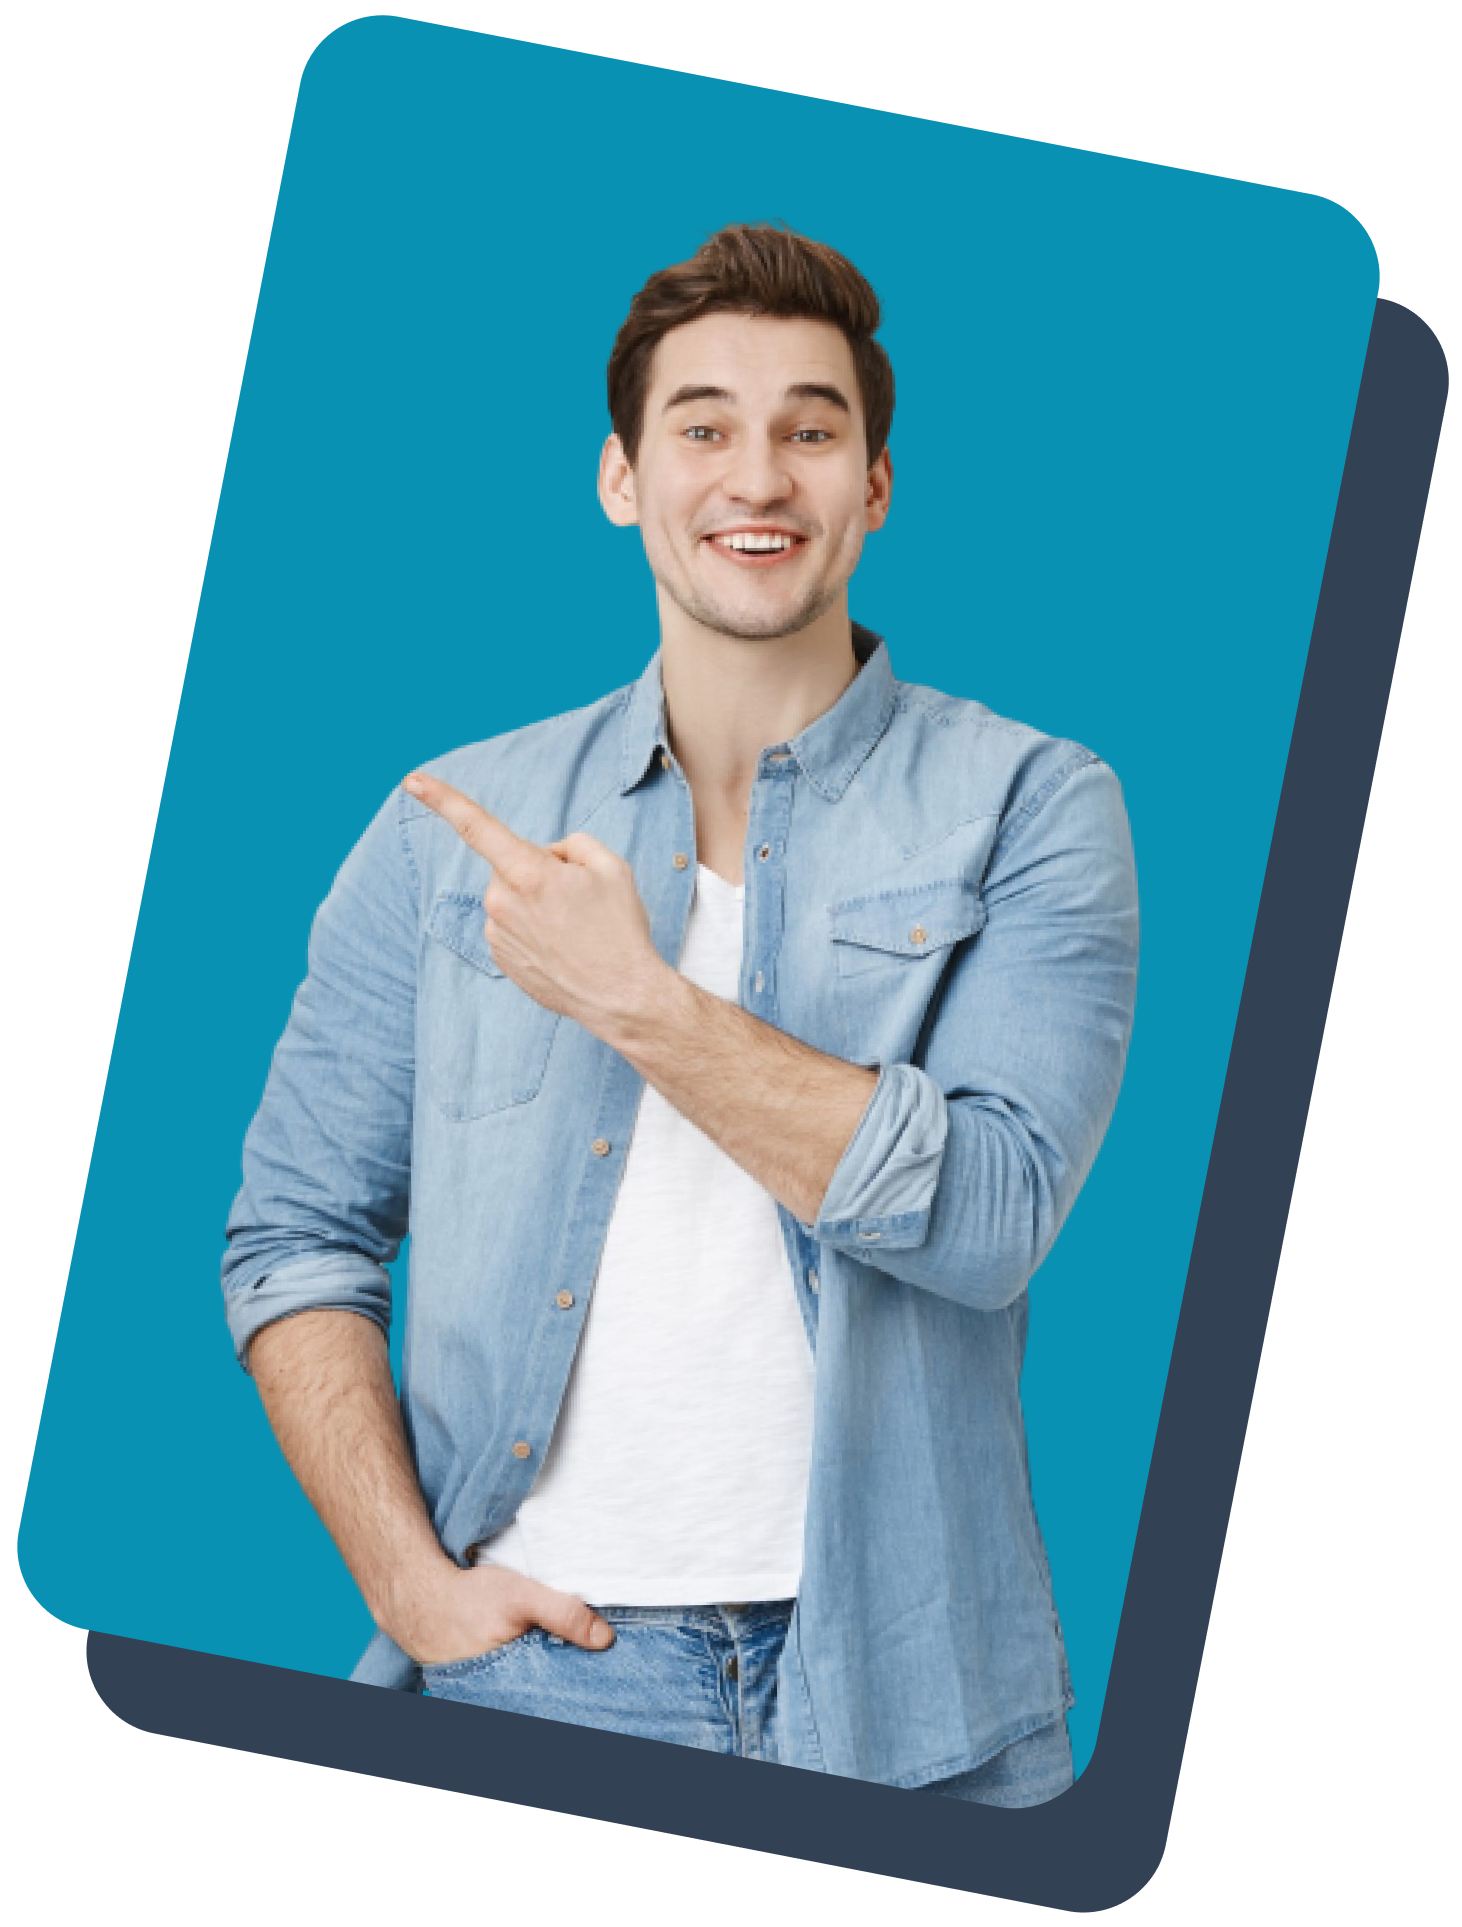
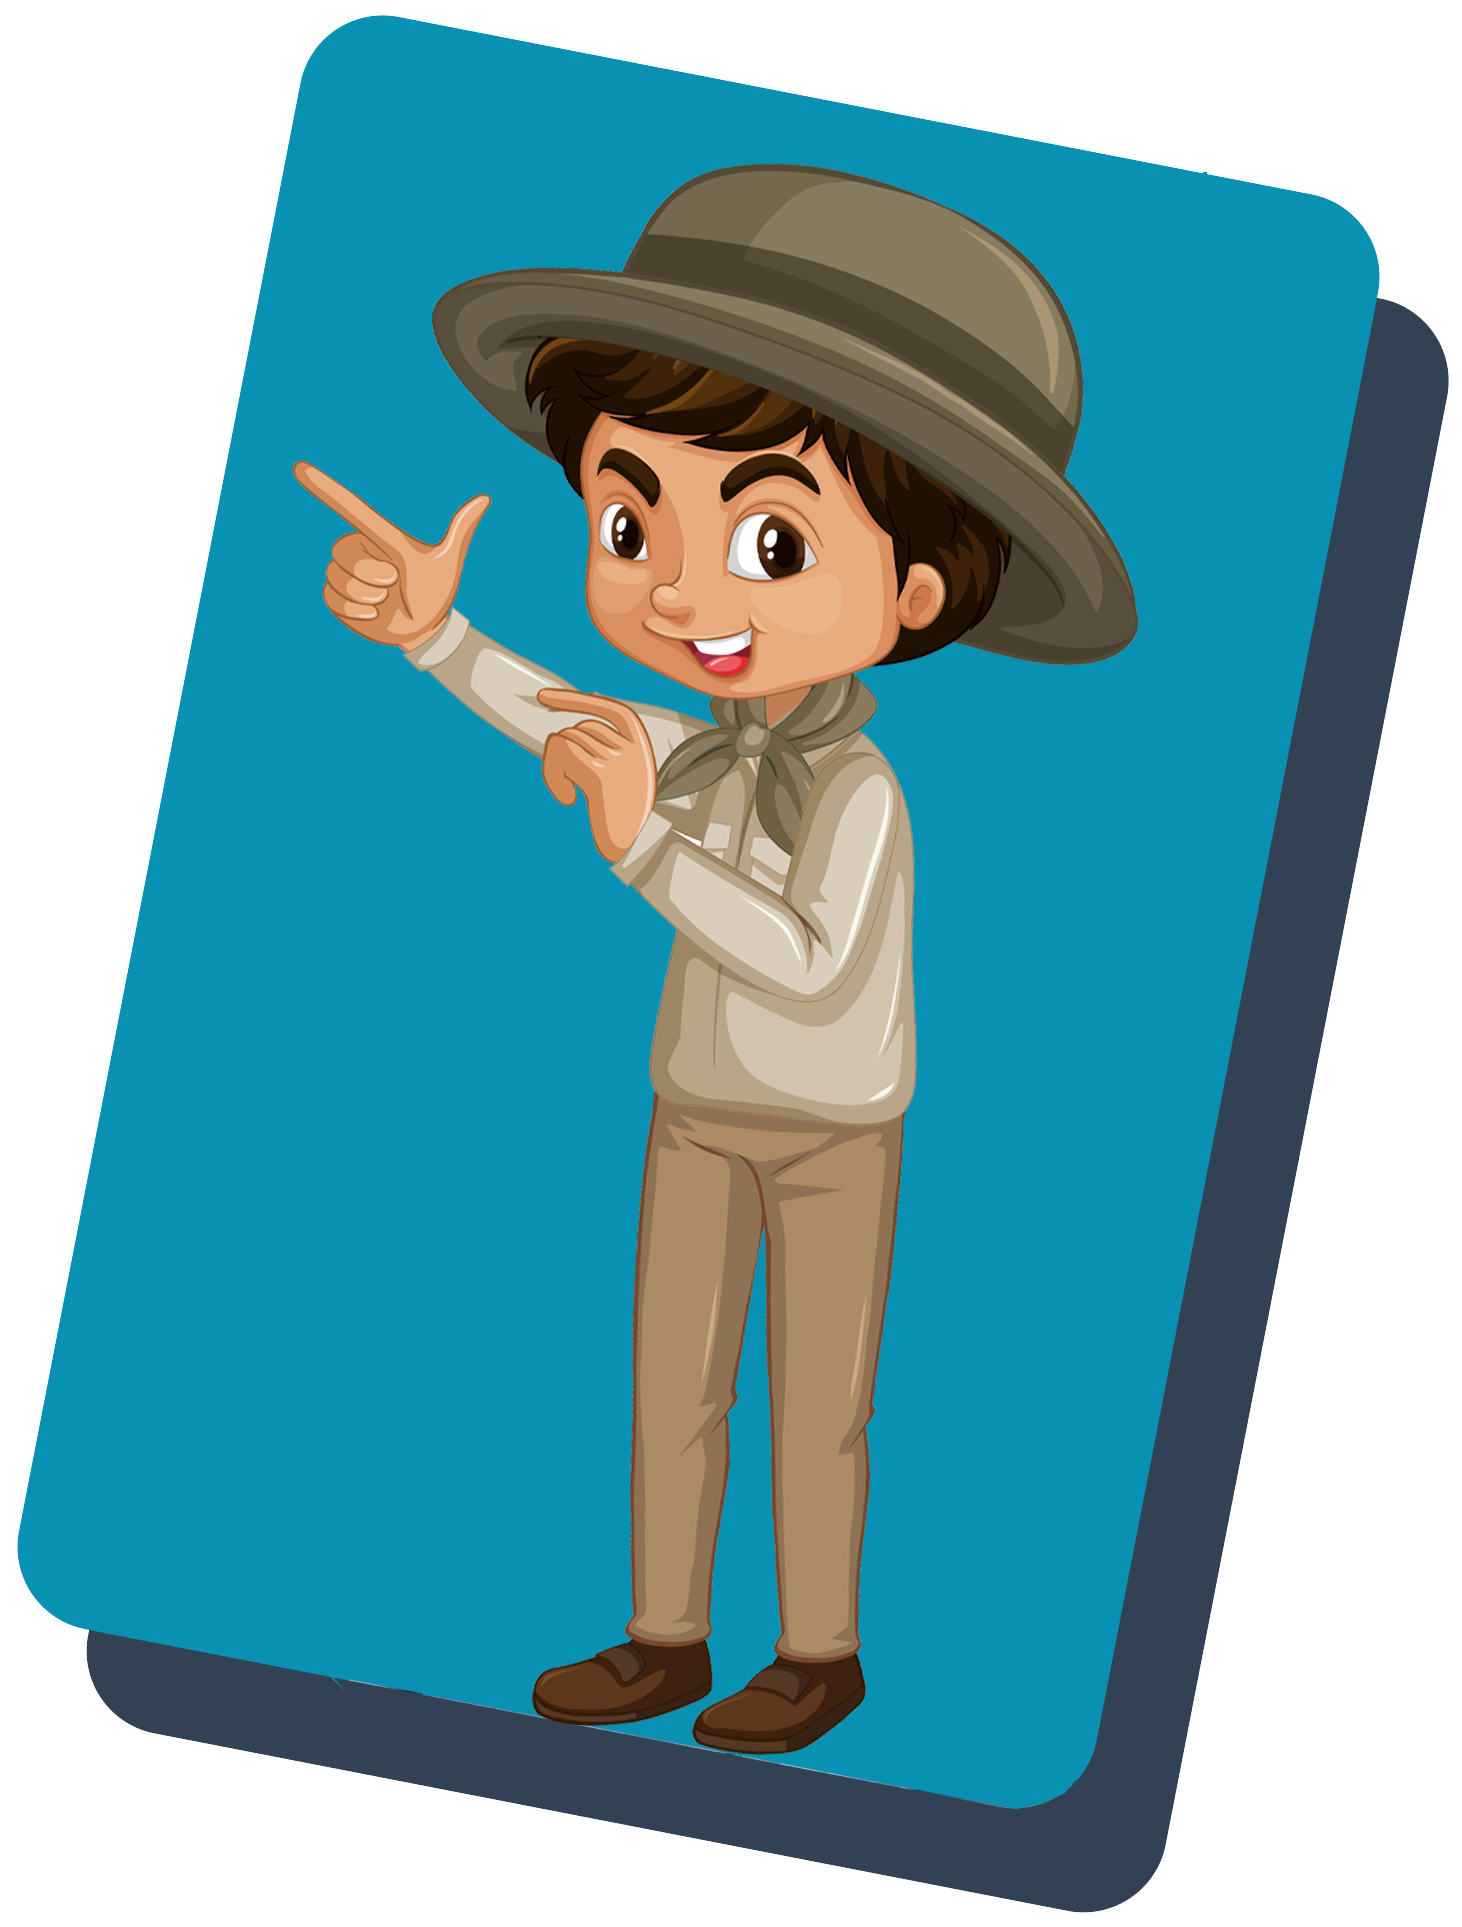
add experience and education section

diff --git a/src/Components/Experience.jsx b/src/Components/Experience.jsx
@@ -1,0 +1,36 @@
+/* eslint-disable react/no-unescaped-entities */
+import Container from "./Container";
+
+
+const Experience = () => {
+    return (
+        <section id="experience" className="py-10 bg-gray-950">
+            <Container>
+                <div className="text-center pb-10">
+                    <h3 className="text-4xl font-bold"> Education and <span className="text-cyan-500"> Experience</span></h3>
+                </div>
+                <div className="flex max-md:flex-col justify-center items-center gap-3 md:gap-10 pb-8">
+                    <div className="flex-1 text-center md:text-right md:border-r-4 pr-10 max-md:border-b-4 max-md:pb-5 border-gray-900">
+                        <p className="text-cyan-400 font-bold text-2xl">Bachelor Dgree ( BSS )</p>
+                        <p>Jan 2019 to Dec 2025 || National University</p>
+                    </div>
+                    <div className="flex-1 text-center md:text-left ">
+                        <p className="w-full max-md:mx-auto text-center md:text-justify">The Bachelor's Degree encompasses a comprehensive and in-depth study of various disciplines within the social sciences. Throughout this four-academic-year journey, students delve into the intricate workings of human behavior, societal structures, cultural dynamics, and the broader impact of these factors on local and global communities.</p>
+                    </div>
+                </div>
+                <div className="flex flex-row-reverse max-md:flex-col justify-center items-center gap-3 md:gap-10 pb-8">
+                    <div className="flex-1 text-left md:border-l-4 pl-10 max-md:border-b-4 max-md:pb-5 border-gray-900">
+                        <p className="text-cyan-400 font-bold text-2xl">Complete Web Development Course  With Jhankar Mahbub</p>
+                        <p>Jun 2023 to Dec 2023 || Programming Hero</p>
+                    </div>
+                    <div className="flex-1 text-center md:text-right ">
+                        <p className="text-center md:text-justify">The six-month web development course covers HTML, CSS, JavaScript, React.js (front-end), Node.js, Express.js (back-end), databases, and deployment. It combines theory with hands-on projects, coding exercises, and real-world simulations, focusing on responsive web design and problem-solving. I gained  practical experience, honing skills for industry scenarios.</p>
+                    </div>
+                </div>
+
+            </Container>
+        </section>
+    );
+};
+
+export default Experience;

diff --git a/src/Components/About.jsx b/src/Components/About.jsx
@@ -1,12 +1,8 @@
-import aboutImg from "../assets/about.png";
+import aboutImg from "../assets/aboutimg.png";
 import Container from "./Container";
 import { MdDownload } from "react-icons/md";
 const About = () => {
-    const info = [
-        { text: "Years experience", count: "04" },
-        { text: "Completed Projects", count: "24" },
-        { text: "Companies Work", count: "06" },
-    ];
+   
     return (
         <Container>
             <section id="about" className="py-10 text-white">
@@ -14,15 +10,12 @@ const About = () => {
                 <h3 className="text-4xl font-Poppins font-extrabold">
                     About <span className="text-cyan-600">Me</span>
                 </h3>
-                <p className="text-gray-400 my-3 text-lg">My introduction</p>
+                <p className="text-gray-500 my-3 font-semibold  text-lg">Driven React Frontend Developer with a Passion for Continuous Growth</p>
                 <div className="flex md:flex-row flex-col-reverse items-center md:gap-6 gap-12 px-10 max-w-6xl mx-auto">
                     <div className="p-2">
-                        <div className="text-gray-300 my-3">
+                        <div className="text-gray-300 font-medium my-3">
                             <p className="text-justify leading-7 w-11/12 mx-auto">
-                                Lorem ipsum dolor sit amet consectetur adipisicing elit. Ipsa
-                                eos, quam vel quisquam, explicabo sit labore dignissimos optio
-                                ratione quibusdam doloribus pariatur consequuntur sint.
-                                Reprehenderit cupiditate possimus facere quasi voluptatem?
+                           Hi, <br /> I am Arif Hossain, a dedicated professional React Frontend Developer with a profound enthusiasm for continuous learning. My insatiable curiosity drives me to explore emerging technologies persistently. Committed to growth, my aspiration is to ascend to the position of a senior frontend developer within the next two years, and I am resolutely focused on realizing this goal. Coding is a passion of mine—I engage in coding activities regularly, striving to create something new on a daily basis. Below is a snapshot of my GitHub activity for each day.
                             </p>
                             <div className="flex mt-10 items-center gap-7">
                                 {/* {info.map((content) => (

diff --git a/src/Components/Hireme.jsx b/src/Components/Hireme.jsx
@@ -1,5 +1,6 @@
+/* eslint-disable react/no-unescaped-entities */
 
-import hireMe from "../assets/hireMe.png";
+import hireMe from "../assets/aboutimg.png";
 const Hireme = () => {
   return (
     <section id="hireme" className="py-10 px-3 text-white">
@@ -15,10 +16,7 @@ const Hireme = () => {
             Do you want any work from me?
           </h2>
           <p className="lg:text-left text-justify max-w-lg text-sm mt-4 text-gray-200 leading-6">
-            Lorem ipsum dolor sit amet consectetur adipisicing elit. Omnis dicta
-            soluta quos tempore eos accusamus cupiditate, amet in similique
-            sapiente obcaecati odio deleniti architecto corporis ratione.
-            Consequatur a quidem maiores!
+          As a dedicated professional React Frontend Developer, I am driven by an insatiable curiosity for learning and a relentless passion for coding. My commitment to continuous growth fuels my exploration of emerging technologies, ensuring a dynamic and innovative approach to development. With a goal to ascend to a senior frontend developer role in the next two years, I bring unwavering focus and dedication to achieving excellence. I thrive on the daily challenge of creating innovative solutions, pushing boundaries, and delivering exceptional results. Let's collaborate and elevate your projects to new heights.
           </p>
           <button className="btn-primary mt-10">Say Hello</button>
         </div>

diff --git a/src/Components/Footer.jsx b/src/Components/Footer.jsx
@@ -7,12 +7,12 @@ const Footer = () => {
 <section className="bg-gray-900 shadow-2xl  shadow-white">
 <div className="flex max-md:flex-col justify-center items-center gap-5 md:gap-10 max-md:h-[300px] h-[200px]  ">
             <div className="text-center md:border-r-4 md:px-20 max-md:border-b-4 max-md:pb-5 border-gray-900">
-                <h5 className="text-3xl font-bold pb-3 ">Contact Info </h5>
+                <h5 className="text-3xl font-bold pb-3 ">Con<span className="text-cyan-500 ">tact</span> Info </h5>
                 <p>Munshiganj, Dhaka, Bangladesh</p>
                 <p>+880 1575 748077</p>
                             </div>
             <div  className="text-center md:px-20">
-                <h5 className="text-2xl font-bold ">Follow On</h5>
+                <h5 className="text-2xl font-bold ">Fo<span className="text-cyan-500 ">llo</span>w On</h5>
                 <div className="mt-8 text-3xl flex items-center md:justify-start justify-center gap-5">
 
                         <div className="text-gray-600 hover:text-white cursor-pointer " >

diff --git a/src/Components/Contact.jsx b/src/Components/Contact.jsx
@@ -1,3 +1,4 @@
+/* eslint-disable react/no-unescaped-entities */
 import emailjs from '@emailjs/browser';
 import { useRef } from 'react';
 import { CgMail } from "react-icons/cg";
@@ -29,7 +30,7 @@ const Contact = () => {
                     <h3 className="text-4xl font-semibold">
                         Contact <span className="text-cyan-600">Me</span>
                     </h3>
-                    <p className="text-gray-400 mt-3 text-lg">Get in touch</p>
+                    <p className="text-gray-400 mt-3 text-lg">Available 24/7: Reach out on LinkedIn, email, or phone <br /> for any opportunities—I'm ready and responsive</p>
 
                     <div className="mt-16 flex md:flex-row flex-col gap-6 max-w-5xl bg-gray-800 md:p-6 p-2 rounded-lg mx-auto"
                     >

diff --git a/src/Components/Navbar.jsx b/src/Components/Navbar.jsx
@@ -8,10 +8,12 @@ const Navbar = () => {
         { name: "ABOUT", link: "#about" },
         { name: "SKILLS", link: "#skills" },
         { name: "PROJECTS", link: "#projects" },
+        { name: "EDUCATION & EXPERIENCE", link: "#experience" },
         { name: "CONTACT", link: "#contact" },
     ];
     useEffect(() => {
         window.addEventListener("scroll", () => {
+            // eslint-disable-next-line no-unused-vars
             const nav = document.querySelector("nav");
             window.scrollY > 0 ? setSticky(true) : setSticky(false);
         });

diff --git a/src/Components/Skills.jsx b/src/Components/Skills.jsx
@@ -68,7 +68,7 @@ const Skills = () => {
         <h3 className="text-4xl font-semibold">
           My <span className="text-cyan-600">Skills</span>
         </h3>
-        <p className="text-gray-400 mt-3 text-lg">My knowledge</p>
+        <p className="text-gray-400 mt-3 text-lg">Proficient in React and front-end technologies, dedicated <br /> to continual growth and exploration of emerging tools and frameworks</p>
       </div>
       <Swiper className="mySwiper my-10 "
         // slidesPerView={6}

diff --git a/src/App.jsx b/src/App.jsx
@@ -2,6 +2,7 @@ import About from "./Components/About"
 import Banner from "./Components/Banner"
 import Bot from "./Components/Bot"
 import Contact from "./Components/Contact"
+import Experience from "./Components/Experience"
 import Footer from "./Components/Footer"
 import Hireme from "./Components/Hireme"
 import Navbar from "./Components/Navbar"
@@ -20,6 +21,7 @@ function App() {
     <Skills/>
     <Hireme/>
     <Project/>
+    <Experience/>
     <Contact/>
     <Footer/>
     </>
